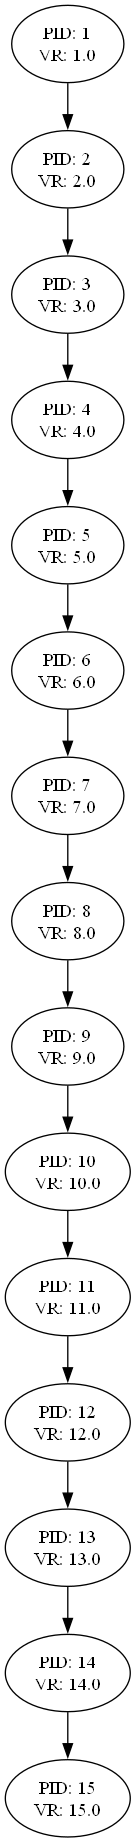
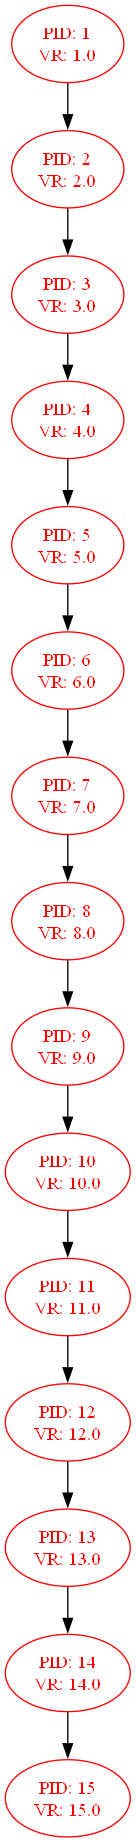
Pasos 5 y 6: Integración del Red-Black Tree y análisis de rendimiento en escenarios de llegada secuencial y procesos frecuentes

diff --git a/src/main.py b/src/main.py
@@ -6,24 +6,31 @@ from src.trees.bst import BST
 from src.trees.splay_tree import SplayTree
 from src.trees.red_black_tree import RedBlackTree
 
-def visualize(node, dot=None, count=None):
+def visualize(node, dot=None, count=None, phantom=None):
     # Se inicializan las variables por cada llamada independiente
     if dot is None: dot = Digraph(comment='Tree Snapshot')
     if count is None: count = [0]
     
-    if node and count[0] < 15:
+    # Se verifica que el nodo no sea nulo ni sea el nodo_fantasma del RBT
+    if node and node != phantom and count[0] < 15:
         count[0] += 1
-        dot.node(str(id(node)), f"PID: {node.process.pid}\nVR: {node.process.vruntime:.1f}")
         
-        # Validacion del hijo izquierdo antes de dibujar la arista
-        if node.left and count[0] < 15:
+        # Determinar color: Rojo si color=1, Negro si color=0 (por defecto negro para BST/Splay)
+        node_color = "red" if getattr(node, 'color', None) == 1 else "black"
+        
+        dot.node(str(id(node)), 
+            f"PID: {node.process.pid}\nVR: {node.process.vruntime:.1f}", 
+            color=node_color, fontcolor=node_color)
+        
+        # Validación del hijo izquierdo antes de dibujar la arista
+        if node.left and node.left != phantom and count[0] < 15:
             dot.edge(str(id(node)), str(id(node.left)))
-            visualize(node.left, dot, count)
+            visualize(node.left, dot, count, phantom) # Pasar el phantom recursivamente
             
-        # Validacion del hijo derecho antes de dibujar la arista
-        if node.right and count[0] < 15:
+        # Validación del hijo derecho antes de dibujar la arista
+        if node.right and node.right != phantom and count[0] < 15:
             dot.edge(str(id(node)), str(id(node.right)))
-            visualize(node.right, dot, count)
+            visualize(node.right, dot, count, phantom) # Pasar el phantom recursivamente
             
     return dot
 
@@ -72,62 +79,72 @@ print(f"Promedio BST: {sum(iter_bst)/100:.2f}")
 print(f"Promedio Splay: {sum(iter_splay)/100:.2f}")
 print(f"Promedio Red-Black: {sum(iter_rbt)/100:.2f}")
 
-# Escenario B (Peor Caso) 
+# --- PASO 5: ESCENARIO B - LLEGADA SECUENCIAL ---
 
-# 1. Generacion de 1000 procesos ordenados ascendentemente (vruntime de 1 a 1000)
+# 1. Generación de 1000 procesos ordenados (1 a 1000)
 procesos_secuenciales = [Process(i, float(i)) for i in range(1, 1001)]
-bst_b, splay_b = BST(), SplayTree()
+bst_b = BST()
+splay_b = SplayTree()
+rbt_b = RedBlackTree() # Se agrega el Red-Black Tree
 
-# 2. Insercion secuencial en las estructuras
+# 2. Inserción secuencial
 for p in procesos_secuenciales:
     bst_b.insert(p)
     splay_b.insert(p)
+    rbt_b.insert(p)
 
-# 3. Busqueda especifica del ultimo proceso insertado (Proceso 1000)
+# 3. Búsqueda del proceso 1000 en las tres estructuras
 _, pasos_bst = bst_b.search(1000.0)
 _, pasos_splay = splay_b.search(1000.0)
+_, pasos_rbt = rbt_b.search(1000.0)
 
-print("-- Resultados Escenario B --")
-print(f"Iteraciones para encontrar el proceso 1000 en BST: {pasos_bst}")
-print(f"Iteraciones para encontrar el proceso 1000 en Splay Tree: {pasos_splay}")
+print("-- Resultados Escenario B (Búsqueda del proceso 1000) --")
+print(f"BST: {pasos_bst} iteraciones")
+print(f"Splay Tree: {pasos_splay} iteraciones")
+print(f"Red-Black Tree: {pasos_rbt} iteraciones")
 
-# 4. Mostrar y enviar la visualizacion de la porcion representativa (primeros 15 nodos)
+# 4. Generar visualizaciones representativas
 visualize(bst_b.root, count=[0]).render('docs/bst_escenario_b', format='png', cleanup=True)
 visualize(splay_b.root, count=[0]).render('docs/splay_escenario_b', format='png', cleanup=True)
+# Para el RBT se pasa el nodo_fantasma para evitar graficarlo
+visualize(rbt_b.root, count=[0], phantom=rbt_b.nodo_fantasma).render('docs/rbt_escenario_b', format='png', cleanup=True)
+
 
 # --- ESCENARIO C: PROCESO FRECUENTE (Proceso Frecuente de I/O) ---
 
-# 1. Generación de 1000 procesos en orden aleatorio
-procesos = [Process(i, random.uniform(0, 5000)) for i in range(1, 1001)]
-splay_tree = SplayTree()
+# 1. Preparación de las estructuras con 1000 procesos aleatorios
+procesos_c = [Process(i, random.uniform(0, 5000)) for i in range(1, 1001)]
+splay_c = SplayTree()
+rbt_c = RedBlackTree() # Integración del Red-Black Tree
 
-# 2. Inserción de procesos
-for p in procesos:
-    splay_tree.insert(p)
+for p in procesos_c:
+    splay_c.insert(p)
+    rbt_c.insert(p)
 
-# 3. Simulación de E/S: Buscar el MISMO proceso 50 veces seguidas
-proceso_objetivo = random.choice(procesos)
-resultados_iteraciones = []
+# 2. Simulación: Buscar el MISMO proceso 50 veces seguidas
+proceso_objetivo = random.choice(procesos_c)
+iter_splay = []
+iter_rbt = []
 
-print(f"-- Resultados Escenario C (PID: {proceso_objetivo.pid}) --")
+print(f"\n-- Escenario C: Buscando PID {proceso_objetivo.pid} 50 veces --")
 
-for i in range(50):
-    _, pasos = splay_tree.search(proceso_objetivo.vruntime)
-    resultados_iteraciones.append(pasos)
-    if i < 3 or i == 49:
-        print(f"Búsqueda {i+1}: {pasos} iteraciones")
+for _ in range(50):
+    _, pasos_s = splay_c.search(proceso_objetivo.vruntime)
+    _, pasos_r = rbt_c.search(proceso_objetivo.vruntime)
+    iter_splay.append(pasos_s)
+    iter_rbt.append(pasos_r)
 
-# 4. Gráfica de rendimiento
-plt.figure(figsize=(10, 5))
-plt.plot(resultados_iteraciones, marker='o', color='green', label='Splay Tree')
-plt.title('splay_escenario_c')
+# 3. Gráfica comparativa de iteraciones
+plt.figure(figsize=(10, 6))
+plt.plot(iter_rbt, label='Red-Black Tree (Estático)', color='red', linestyle='--')
+plt.plot(iter_splay, label='Splay Tree (Dinámico)', color='green', linewidth=2)
+plt.title('Escenario C: 50 Búsquedas del Mismo Proceso')
 plt.xlabel('Número de Intento')
-plt.ylabel('Cantidad de Iteraciones')
+plt.ylabel('Iteraciones')
 plt.legend()
 plt.grid(True)
+plt.savefig('docs/comparativa_escenario_c.png')
 plt.show()
 
-# 5. Visualización del estado final (el proceso buscado debería estar en la raíz)
-visualize(splay_tree.root, count=[0]).render('docs/splay_escenario_c', format='png', cleanup=True)
-
-
+print(f"Promedio Splay Tree: {sum(iter_splay)/50:.2f}")
+print(f"Promedio Red-Black Tree: {sum(iter_rbt)/50:.2f}")
